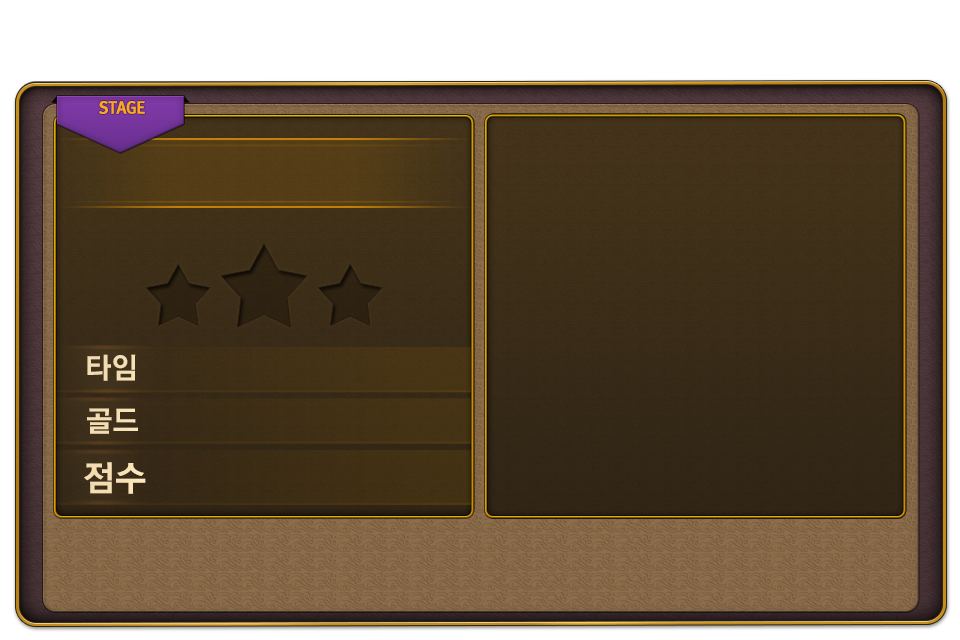
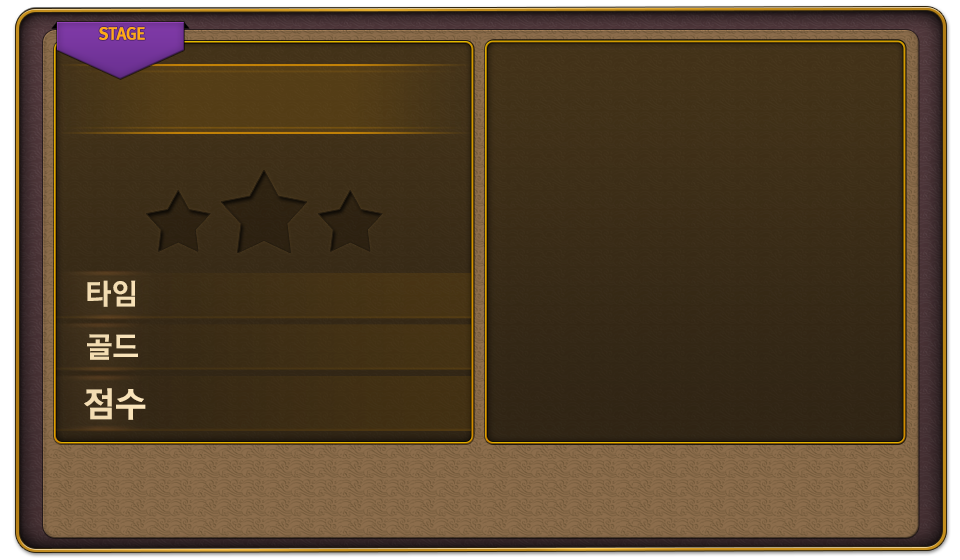
성공/실패 창 이미지 변경으로 인한 좌표 수정

diff --git a/Classes/ClearPopup.cpp b/Classes/ClearPopup.cpp
@@ -203,13 +203,13 @@ bool ClearPopup::init()
 	}
     
 	main_case = CCSprite::create("ending_back.png");
-	main_case->setAnchorPoint(ccp(0,0));
-	main_case->setPosition(ccp(0,-320));
+	main_case->setAnchorPoint(ccp(0.5f,0.5f));
+	main_case->setPosition(ccp(240,160-450));
 	addChild(main_case, kZ_CP_back);
 	
 		
 	CCSprite* title = CCSprite::create("ending_clear.png");
-	title->setPosition(ccp(131,233.5f));
+	title->setPosition(ccp(131,230.5f));
 	main_case->addChild(title, kZ_CP_img);
 	
 	if(mySGD->is_before_selected_event_stage)
@@ -217,7 +217,7 @@ bool ClearPopup::init()
 		int stage_number = mySD->getSilType();
 		
 		CCLabelTTF* stage_number_label = CCLabelTTF::create(CCString::createWithFormat("%d", stage_number)->getCString(),	mySGD->getFont().c_str(), 10);
-		stage_number_label->setPosition(ccp(60, main_case->getContentSize().height-65));
+		stage_number_label->setPosition(ccp(60, main_case->getContentSize().height-68));
 		main_case->addChild(stage_number_label, kZ_CP_img);
 		
 		mySGD->is_before_selected_event_stage = false;
@@ -229,7 +229,7 @@ bool ClearPopup::init()
 		int piece_number = NSDS_GI(puzzle_number, kSDS_PZ_stage_int1_pieceNo_i, stage_number);
 		
 		CCLabelTTF* piece_number_label = CCLabelTTF::create(CCString::createWithFormat("%d-%d", puzzle_number, piece_number)->getCString(),	mySGD->getFont().c_str(), 10);
-		piece_number_label->setPosition(ccp(60, main_case->getContentSize().height-65));
+		piece_number_label->setPosition(ccp(60, main_case->getContentSize().height-68));
 		main_case->addChild(piece_number_label, kZ_CP_img);
 	}
 	
@@ -348,7 +348,7 @@ bool ClearPopup::init()
 	if(mySGD->is_ingame_before_have_stage_cards[0])
 	{
 		bronze_star = CCSprite::create("ending_star_bronze.png");
-		bronze_star->setPosition(ccp(89,173));
+		bronze_star->setPosition(ccp(89,170));
 		main_case->addChild(bronze_star, kZ_CP_img);
 	}
 	else
@@ -357,7 +357,7 @@ bool ClearPopup::init()
 	if(mySGD->is_ingame_before_have_stage_cards[1])
 	{
 		silver_star = CCSprite::create("ending_star_silver.png");
-		silver_star->setPosition(ccp(175,173));
+		silver_star->setPosition(ccp(175,170));
 		main_case->addChild(silver_star, kZ_CP_img);
 	}
 	else
@@ -366,7 +366,7 @@ bool ClearPopup::init()
 	if(mySGD->is_ingame_before_have_stage_cards[2])
 	{
 		gold_star = CCSprite::create("ending_star_gold.png");
-		gold_star->setPosition(ccp(132,177));
+		gold_star->setPosition(ccp(132,174));
 		main_case->addChild(gold_star, kZ_CP_img);
 	}
 	else
@@ -377,7 +377,7 @@ bool ClearPopup::init()
 	if(!bronze_star && take_level == 1)
 	{
 		bronze_star = CCSprite::create("ending_star_bronze.png");
-		bronze_star->setPosition(ccp(89,173));
+		bronze_star->setPosition(ccp(89,170));
 		main_case->addChild(bronze_star, kZ_CP_img);
 		
 		bronze_star->setScale(0);
@@ -387,7 +387,7 @@ bool ClearPopup::init()
 	else if(!silver_star && take_level == 2)
 	{
 		silver_star = CCSprite::create("ending_star_silver.png");
-		silver_star->setPosition(ccp(175,173));
+		silver_star->setPosition(ccp(175,170));
 		main_case->addChild(silver_star, kZ_CP_img);
 		
 		silver_star->setScale(0);
@@ -397,7 +397,7 @@ bool ClearPopup::init()
 	else if(!gold_star && take_level == 3)
 	{
 		gold_star = CCSprite::create("ending_star_gold.png");
-		gold_star->setPosition(ccp(132,177));
+		gold_star->setPosition(ccp(132,174));
 		main_case->addChild(gold_star, kZ_CP_img);
 		
 		gold_star->setScale(0);
@@ -408,19 +408,19 @@ bool ClearPopup::init()
 	
 	score_label = CCLabelBMFont::create("0", "mb_white_font.fnt");
 	score_label->setAnchorPoint(ccp(1,0.5));
-	score_label->setPosition(ccp(230,81));
+	score_label->setPosition(ccp(230,78));
 	score_label->setAlignment(kCCTextAlignmentRight);
 	main_case->addChild(score_label, kZ_CP_img);
 	
 	gold_label = CCLabelBMFont::create("0", "mb_white_font.fnt");
 	gold_label->setAnchorPoint(ccp(1,0.5));
-	gold_label->setPosition(ccp(230,109));
+	gold_label->setPosition(ccp(230,106));
 	gold_label->setAlignment(kCCTextAlignmentRight);
 	main_case->addChild(gold_label, kZ_CP_img);
 	
 	time_label = CCLabelBMFont::create("0", "mb_white_font.fnt");
 	time_label->setAnchorPoint(ccp(1,0.5));
-	time_label->setPosition(ccp(230,135));
+	time_label->setPosition(ccp(230,132));
 	time_label->setAlignment(kCCTextAlignmentRight);
 	main_case->addChild(time_label, kZ_CP_img);
 	
@@ -459,7 +459,7 @@ bool ClearPopup::init()
 	
 	ok_menu = CCMenu::createWithItem(ok_item);
 	ok_menu->setVisible(false);
-	ok_menu->setPosition(ccp(348.5f,41));
+	ok_menu->setPosition(ccp(348.5f,38));
 	main_case->addChild(ok_menu, kZ_CP_menu);
 	
 	
@@ -474,7 +474,7 @@ bool ClearPopup::init()
 		
 		replay_menu = CCMenu::createWithItem(replay_item);
 		replay_menu->setVisible(false);
-		replay_menu->setPosition(ccp(130,41));
+		replay_menu->setPosition(ccp(130,38));
 		main_case->addChild(replay_menu, kZ_CP_menu);
 	}
 	else
@@ -490,7 +490,7 @@ bool ClearPopup::init()
 			
 			replay_menu = CCMenu::createWithItem(replay_item);
 			replay_menu->setVisible(false);
-			replay_menu->setPosition(ccp(130,41));
+			replay_menu->setPosition(ccp(130,38));
 			main_case->addChild(replay_menu, kZ_CP_menu);
 		}
 		else
@@ -526,7 +526,7 @@ void ClearPopup::showPopup()
 //	CCFadeTo* gray_fade = CCFadeTo::create(0.4f, 255);
 //	gray->runAction(gray_fade);
 
-	main_case->setPosition(ccp(0,0));
+	main_case->setPosition(ccp(240,160));
 	endShowPopup();
 //	CCMoveTo* main_move = CCMoveTo::create(0.5f, ccp(0,0));
 //	CCCallFunc* main_call = CCCallFunc::create(this, callfunc_selector(ClearPopup::endShowPopup));
@@ -547,7 +547,7 @@ void ClearPopup::hidePopup()
 	CCFadeTo* gray_fade = CCFadeTo::create(0.4f, 0);
 	gray->runAction(gray_fade);
 	
-	CCMoveTo* main_move = CCMoveTo::create(0.5f, ccp(0,-320));
+	CCMoveTo* main_move = CCMoveTo::create(0.5f, ccp(240,160-450));
 	CCCallFunc* main_call = CCCallFunc::create(this, callfunc_selector(ClearPopup::endHidePopup));
 	CCSequence* main_seq = CCSequence::createWithTwoActions(main_move, main_call);
 	main_case->runAction(main_seq);
@@ -1025,7 +1025,7 @@ void ClearPopup::resultGetStageScoreList(Json::Value result_data)
 				if(mySGD->getScore() < score_list[i]["score"].asFloat())
 				{
 					CCSprite* high_score_img = CCSprite::create("ending_highscore.png");
-					high_score_img->setPosition(ccp(105, 81));
+					high_score_img->setPosition(ccp(105, 78));
 					main_case->addChild(high_score_img, kZ_CP_img);
 				}
 			}
@@ -1071,7 +1071,7 @@ void ClearPopup::resultGetStageScoreList(Json::Value result_data)
 		rankTableView->setAnchorPoint(CCPointZero);
 		rankTableView->setDirection(kCCScrollViewDirectionVertical);
 		rankTableView->setVerticalFillOrder(kCCTableViewFillTopDown);
-		rankTableView->setPosition(ccp(243, 62.5f));
+		rankTableView->setPosition(ccp(243, 59.5f));
 		
 		rankTableView->setDelegate(this);
 		main_case->addChild(rankTableView, kZ_CP_menu);
@@ -1107,7 +1107,7 @@ void ClearPopup::resultSavedUserData(Json::Value result_data)
 			rankTableView->setAnchorPoint(CCPointZero);
 			rankTableView->setDirection(kCCScrollViewDirectionVertical);
 			rankTableView->setVerticalFillOrder(kCCTableViewFillTopDown);
-			rankTableView->setPosition(ccp(243, 62.5f));
+			rankTableView->setPosition(ccp(243, 59.5f));
 			
 			rankTableView->setDelegate(this);
 			main_case->addChild(rankTableView, kZ_CP_menu);

diff --git a/Classes/FailPopup.cpp b/Classes/FailPopup.cpp
@@ -232,7 +232,7 @@ bool FailPopup::init()
 	
 	main_case = CCSprite::create("ending_back.png");
 	main_case->setAnchorPoint(ccp(0,0));
-	main_case->setPosition(ccp(0,-320));
+	main_case->setPosition(ccp(240,160-450));
 	addChild(main_case, kZ_FP_back);
 	
 	
@@ -241,7 +241,7 @@ bool FailPopup::init()
 		int stage_number = mySD->getSilType();
 		
 		CCLabelTTF* stage_number_label = CCLabelTTF::create(CCString::createWithFormat("%d", stage_number)->getCString(),	mySGD->getFont().c_str(), 10);
-		stage_number_label->setPosition(ccp(60, main_case->getContentSize().height-65));
+		stage_number_label->setPosition(ccp(60, main_case->getContentSize().height-68));
 		main_case->addChild(stage_number_label);
 		
 		mySGD->is_before_selected_event_stage = false;
@@ -253,7 +253,7 @@ bool FailPopup::init()
 		int piece_number = NSDS_GI(puzzle_number, kSDS_PZ_stage_int1_pieceNo_i, stage_number);
 		
 		CCLabelTTF* piece_number_label = CCLabelTTF::create(CCString::createWithFormat("%d-%d", puzzle_number, piece_number)->getCString(),	mySGD->getFont().c_str(), 10);
-		piece_number_label->setPosition(ccp(60, main_case->getContentSize().height-65));
+		piece_number_label->setPosition(ccp(60, main_case->getContentSize().height-68));
 		main_case->addChild(piece_number_label);
 	}
 	
@@ -262,19 +262,19 @@ bool FailPopup::init()
 	if(fail_code == kFC_gameover)
 	{
 		CCSprite* title = CCSprite::create("ending_gameover.png");
-		title->setPosition(ccp(131,233.5f));
+		title->setPosition(ccp(131,230.5f));
 		main_case->addChild(title, kZ_FP_img);
 	}
 	else if(fail_code == kFC_timeover)
 	{
 		CCSprite* title = CCSprite::create("ending_timeover.png");
-		title->setPosition(ccp(131,233.5f));
+		title->setPosition(ccp(131,230.5f));
 		main_case->addChild(title, kZ_FP_img);
 	}
 	else if(fail_code == kFC_missionfail)
 	{
 		CCSprite* title = CCSprite::create("ending_missionfail.png");
-		title->setPosition(ccp(131,233.5f));
+		title->setPosition(ccp(131,230.5f));
 		main_case->addChild(title, kZ_FP_img);
 		
 		//		CLEAR_CONDITION clr_cdt = mySD->getClearCondition();
@@ -334,19 +334,19 @@ bool FailPopup::init()
 	
 	score_label = CCLabelBMFont::create("0", "mb_white_font.fnt");
 	score_label->setAnchorPoint(ccp(1.f,0.5));
-	score_label->setPosition(ccp(230,81));
+	score_label->setPosition(ccp(230,78));
 	score_label->setAlignment(kCCTextAlignmentRight);
 	main_case->addChild(score_label, kZ_FP_img);
 	
 	gold_label = CCLabelBMFont::create("0", "mb_white_font.fnt");
 	gold_label->setAnchorPoint(ccp(1.f,0.5));
-	gold_label->setPosition(ccp(230,109));
+	gold_label->setPosition(ccp(230,106));
 	gold_label->setAlignment(kCCTextAlignmentRight);
 	main_case->addChild(gold_label, kZ_FP_img);
 	
 	time_label = CCLabelBMFont::create("0", "mb_white_font.fnt");
 	time_label->setAnchorPoint(ccp(1.f,0.5));
-	time_label->setPosition(ccp(230,135));
+	time_label->setPosition(ccp(230,132));
 	time_label->setAlignment(kCCTextAlignmentRight);
 	main_case->addChild(time_label, kZ_FP_img);
 	
@@ -380,7 +380,7 @@ bool FailPopup::init()
 	
 	main_menu = CCMenu::createWithItem(main_item);
 	main_menu->setVisible(false);
-	main_menu->setPosition(ccp(348.5f,41));
+	main_menu->setPosition(ccp(348.5f,38));
 	main_case->addChild(main_menu, kZ_FP_menu);
 	
 	
@@ -395,7 +395,7 @@ bool FailPopup::init()
 		
 		replay_menu = CCMenu::createWithItem(replay_item);
 		replay_menu->setVisible(false);
-		replay_menu->setPosition(ccp(130,41));
+		replay_menu->setPosition(ccp(130,38));
 		main_case->addChild(replay_menu, kZ_FP_menu);
 	}
 	else
@@ -411,7 +411,7 @@ bool FailPopup::init()
 			
 			replay_menu = CCMenu::createWithItem(replay_item);
 			replay_menu->setVisible(false);
-			replay_menu->setPosition(ccp(130,41));
+			replay_menu->setPosition(ccp(130,38));
 			main_case->addChild(replay_menu, kZ_FP_menu);
 		}
 		else
@@ -496,7 +496,7 @@ void FailPopup::showPopup()
 //	CCFadeTo* gray_fade = CCFadeTo::create(0.4f, 255);
 //	gray->runAction(gray_fade);
 
-	main_case->setPosition(ccp(0,0));
+	main_case->setPosition(ccp(240,160));
 	endShowPopup();
 //	CCMoveTo* main_move = CCMoveTo::create(0.5f, ccp(0,0));
 //	CCCallFunc* main_call = CCCallFunc::create(this, callfunc_selector(FailPopup::endShowPopup));
@@ -517,7 +517,7 @@ void FailPopup::hidePopup()
 	CCFadeTo* gray_fade = CCFadeTo::create(0.4f, 0);
 	gray->runAction(gray_fade);
 	
-	CCMoveTo* main_move = CCMoveTo::create(0.5f, ccp(0,-320));
+	CCMoveTo* main_move = CCMoveTo::create(0.5f, ccp(240,160-450));
 	CCCallFunc* main_call = CCCallFunc::create(this, callfunc_selector(FailPopup::endHidePopup));
 	CCSequence* main_seq = CCSequence::createWithTwoActions(main_move, main_call);
 	main_case->runAction(main_seq);
@@ -686,7 +686,7 @@ void FailPopup::resultSavedUserData(Json::Value result_data)
 			rankTableView->setAnchorPoint(CCPointZero);
 			rankTableView->setDirection(kCCScrollViewDirectionVertical);
 			rankTableView->setVerticalFillOrder(kCCTableViewFillTopDown);
-			rankTableView->setPosition(ccp(243, 62.5f));
+			rankTableView->setPosition(ccp(243, 59.5f));
 			
 			rankTableView->setDelegate(this);
 			main_case->addChild(rankTableView, kZ_FP_menu);
@@ -789,7 +789,7 @@ void FailPopup::resultGetStageScoreList(Json::Value result_data)
 				if(mySGD->getScore() < score_list[i]["score"].asFloat())
 				{
 					CCSprite* high_score_img = CCSprite::create("ending_highscore.png");
-					high_score_img->setPosition(ccp(105, 81));
+					high_score_img->setPosition(ccp(105, 78));
 					main_case->addChild(high_score_img, kZ_FP_img);
 				}
 			}
@@ -835,7 +835,7 @@ void FailPopup::resultGetStageScoreList(Json::Value result_data)
 		rankTableView->setAnchorPoint(CCPointZero);
 		rankTableView->setDirection(kCCScrollViewDirectionVertical);
 		rankTableView->setVerticalFillOrder(kCCTableViewFillTopDown);
-		rankTableView->setPosition(ccp(243, 62.5f));
+		rankTableView->setPosition(ccp(243, 59.5f));
 		
 		rankTableView->setDelegate(this);
 		main_case->addChild(rankTableView, kZ_FP_menu);
@@ -861,7 +861,7 @@ void FailPopup::resultGetStageScoreList(Json::Value result_data)
 		}
 		
 		suction = TouchSuctionLayer::create(kCCMenuHandlerPriority+1);
-		suction->setNotSwallowRect(CCRectMake(243, 62.5f, 208, 199));
+		suction->setNotSwallowRect(CCRectMake(243, 59.5f, 208, 199));
 		suction->setTouchEnabled(true);
 		main_case->addChild(suction);
 		
@@ -887,8 +887,8 @@ CCPoint FailPopup::getContentPosition(int t_tag)
 {
 	CCPoint return_value;
 	
-	if(t_tag == kMT_FP_main)			return_value = ccp(100,70);
-	else if(t_tag == kMT_FP_replay)		return_value = ccp(240,70);
+	if(t_tag == kMT_FP_main)			return_value = ccp(100,67);
+	else if(t_tag == kMT_FP_replay)		return_value = ccp(240,67);
 	//	else if(t_tag == kMT_FP_help)		return_value = ccp(380,70);
 	
 	return return_value;
